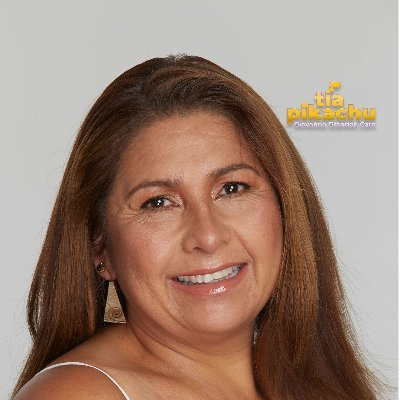
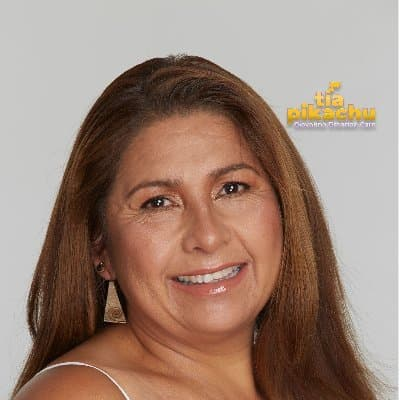
Optimized image size

diff --git a/src/pages/index.js b/src/pages/index.js
@@ -6,7 +6,7 @@ import "../brand.css"
 import tiaTrajeImg from "../images/tia_traje.png"
 import HeaderBGImg from "../images/header_bg.jpg"
 import ContributionsBGImg from "../images/contributions_bg.jpg"
-import USImg from "../images/us.jpeg"
+import USImg from "../images/us.jpg"
 import LogoListaImg from "../images/logo-lista.png"
 import LogoImg from "../images/logo.png"
 
